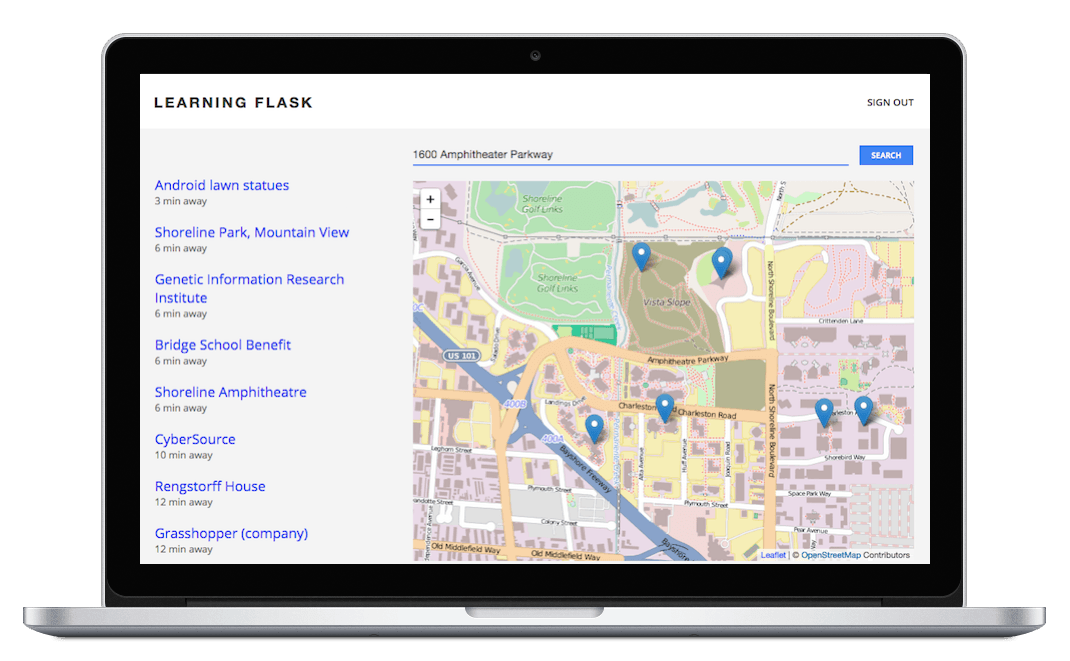
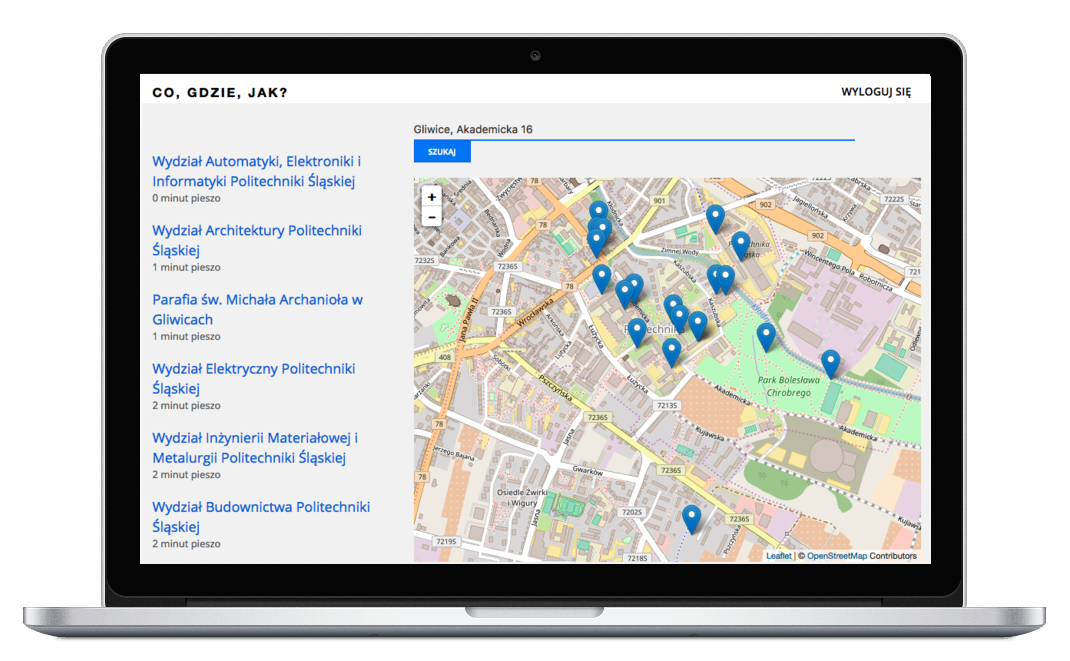
GeoDataAPI i mapa leaflef

diff --git a/templates/home.html b/templates/home.html
@@ -1,0 +1,68 @@
+{% extends "layout.html" %}
+
+{% block content %}
+  <main class="hero-section">
+    <div class="container">
+
+      <div class="section-tabs">
+        <div class="places">
+          {% for place in places %}
+            <article>
+              <a class="name" href="{{ place['url'] }}" target="_blank">{{ place['name'] }}</a>
+              <p class="walking-distance">{{ place['time'] }} minut pieszo</p>
+            </article>
+          {% endfor %}
+        </div>
+      </div>
+
+      <div class="section-map">
+        <div class="nav">
+          <form method="POST" action="/home">
+            {{ form.hidden_tag() }}
+
+            <div class="form-group">
+              {% if form.address.errors %}
+                {% for error in form.address.errors %}
+                  <p class="error-message">{{ error }}</p>
+                {% endfor %}
+              {% endif %}
+
+              {{ form.address(placeholder="Odkrywaj okolicę - wpisz adres") }}
+            </div>
+
+            {{ form.submit(class="btn-primary") }}
+          </form>
+        </div>
+
+        <div id="map"></div>
+      </div>
+
+      <div class="clearfix"></div>
+    </div>
+  </main>
+
+  <script>
+    var planes = [
+      {% for place in places %}
+        ["<h3><a href='{{ place['url'] }}' target='_blank'>{{ place['name'] }}</a></h3> <p>{{ place['time'] }} min away</p>", {{ place['lat'] }}, {{ place['lng'] }} ],
+      {% endfor %}
+    ];
+
+    var map = L.map('map').setView([{{ my_coordinates[0] }}, {{ my_coordinates[1] }}], 15);
+    mapLink = '<a href="http://openstreetmap.org">OpenStreetMap</a>';
+    L.tileLayer(
+      'http://{s}.tile.openstreetmap.org/{z}/{x}/{y}.png', {
+        attribution: '&copy; ' + mapLink + ' Contributors',
+        maxZoom: 18,
+      }
+    ).addTo(map);
+
+    for (var i = 0; i < planes.length; i++) {
+      marker = new L.marker([planes[i][1],planes[i][2]])
+        .bindPopup(planes[i][0])
+        .addTo(map);
+    }
+  </script>
+
+{% endblock %}
+

diff --git a/templates/layout.html b/templates/layout.html
@@ -3,11 +3,19 @@
   <head>
     <link href='http://fonts.googleapis.com/css?family=Open+Sans:300,400,600' rel='stylesheet'>
     <link href="{{ url_for('static', filename='css/main.css') }}" rel="stylesheet">
+
+    <link rel="stylesheet" href="http://cdnjs.cloudflare.com/ajax/libs/leaflet/0.7.3/leaflet.css" />
+    <script src="http://cdnjs.cloudflare.com/ajax/libs/leaflet/0.7.3/leaflet.js"></script>
   </head>
   <body>
     <header>
       <div class="container">
-        <h1 class="title">Learning Flask</h1>
+        <h1 class="title">Co, gdzie, jak?</h1>
+        {% if 'email' in session %}
+            <a href="{{ url_for('logout') }}" class="sign">Wyloguj się</a>
+        {% else %}
+            <a href="{{ url_for('login') }}" class="sign">Zaloguj się</a>
+        {% endif %}
       </div>
     </header>
 

diff --git a/templates/login.html b/templates/login.html
@@ -1,0 +1,31 @@
+{% extends "layout.html" %}
+
+{% block content %}
+  <main class="container signup-section">
+    <div class="section-content">
+      <h2>Logowanie</h2>
+
+      <form method="POST" action="/login">
+        {{ form.hidden_tag() }}
+
+        <div class="form-group">
+          {{ form.email.label }}
+          {{ form.email }}
+        </div>
+
+        <div class="form-group">
+          {{ form.password.label }}
+          {{ form.password }}
+        </div>
+
+        {{ form.submit(class="btn-primary") }}
+
+        <div class="form-group">
+          Nie posiadasz konta? <a href="{{ url_for('signup') }}" >Zarejestruj się!</a>
+        </div>
+
+
+      </form>
+    </div>
+  </main>
+{% endblock %}

diff --git a/static/css/main.css b/static/css/main.css
@@ -85,6 +85,20 @@ a {
   text-transform: uppercase;
 }
 
+.sign {
+  background: #ffffff;
+  color: #000000;
+  font-family: 'Open Sans', sans-serif;
+  font-size: 14px;
+  font-weight: 600;
+  letter-spacing: 0.23px;
+  padding: 0px 12px 0px 12px;
+  text-align: center;
+  text-decoration: none;
+  text-transform: uppercase;
+  float: right;
+}
+
 
 
 /*
@@ -95,6 +109,8 @@ header {
   background-color: #fff;
   padding: 25px 0;
 }
+
+
 
 .title {
   float: left;
@@ -141,7 +157,7 @@ header {
 }
 
 .hero-section .section-content h2 {
-  font-size: 40px;
+  font-size: 30px;
 }
 
 .hero-section .section-content .btn-primary {

diff --git a/templates/index.html b/templates/index.html
@@ -5,9 +5,9 @@
     <div class="container">
 
       <div class="section-content">
-        <h2>Discover places near you.</h2>
-        <a href="{{ url_for('signup') }}" class="btn-primary">Sign up</a>
-        <a href="{{ url_for('about') }}" class="btn-secondary">Learn more</a>
+        <h2>Odkryj miejsca w Twojej okolicy!</h2>
+        <a href="{{ url_for('signup') }}" class="btn-primary">Zarejestruj się</a>
+        <a href="{{ url_for('about') }}" class="btn-secondary">Informacje</a>
       </div>
 
       <div class="section-device">

diff --git a/templates/about.html b/templates/about.html
@@ -4,8 +4,8 @@
   <main class="about-section">
     <div class="container">
 
-    <h2>About Learning Flask</h2>
-    <p>In Learning Flask, you'll build an app that let's you find new places around you. With this app you can find places you like, and discover new points of interest wherever you are.</p>
+    <h2>Informacje</h2>
+    <p>Dzięki tej aplikacji możesz odkrywać miejsca w Twojej okolicy. Możesz znaleźć miejsca, które lubisz oraz poznać zupełnie nowe, interesujące lokalizacje.</p>
 
     </div>
   </main>

diff --git a/templates/signup.html b/templates/signup.html
@@ -3,7 +3,7 @@
 {% block content %}
   <main class="container signup-section">
     <div class="section-content">
-      <h2>Create an account</h2>
+      <h2>Rejestracja</h2>
 
       <form method="POST" action="/signup">
         {{ form.hidden_tag() }}

diff --git a/FlaskApp.py b/FlaskApp.py
@@ -1,6 +1,6 @@
-from flask import Flask, render_template, request
-from Models import db, User
-from Forms import SignupForm
+from flask import Flask, render_template, request, session, redirect, url_for
+from Models import db, User, Place
+from Forms import SignupForm, LoginForm, AddressForm
 
 app = Flask(__name__)
 
@@ -11,7 +11,10 @@ app.secret_key = "development-key"
 
 @app.route("/")
 def index():
-  return render_template("index.html")
+  if 'email' in session:
+    return redirect(url_for('home'))
+  else:
+    return render_template("index.html", session=session)
 
 @app.route("/about")
 def about():
@@ -19,19 +22,83 @@ def about():
 
 @app.route("/signup", methods=["GET", "POST"])
 def signup():
+  if 'email' in session:
+    return redirect(url_for('home'))
+
   form = SignupForm()
 
   if request.method == "POST":
     if form.validate() == False:
-      return render_template('signup.html', form=form)
+      return render_template('signup.html', form=form, session=session)
     else:
       newuser = User(form.first_name.data, form.last_name.data, form.email.data, form.password.data)
       db.session.add(newuser)
       db.session.commit()
-      return 'Success!'
+
+      session['email'] = newuser.email
+      return redirect(url_for('home'))
 
   elif request.method == "GET":
     return render_template('signup.html', form=form)
+
+@app.route("/login", methods=["GET", "POST"])
+def login():
+  if 'email' in session:
+    return redirect(url_for('home'))
+
+  form = LoginForm()
+
+  if request.method == "POST":
+    if form.validate() == False:
+      return render_template("login.html", form=form)
+    else:
+      email = form.email.data
+      password = form.password.data
+
+      user = User.query.filter_by(email=email).first()
+      if user is not None and user.check_password(password):
+        session['email'] = form.email.data
+        return redirect(url_for('home'))
+      else:
+        return redirect(url_for('login'))
+
+  elif request.method == 'GET':
+    return render_template('login.html', form=form)
+
+@app.route("/logout")
+def logout():
+  session.pop('email', None)
+  return redirect(url_for('index'))
+
+@app.route("/home", methods=["GET", "POST"])
+def home():
+  if 'email' not in session:
+    return redirect(url_for('login'))
+
+  form = AddressForm()
+
+  places = []
+  my_coordinates = (37.3456, -123.0987)
+
+  if request.method == "POST":
+      if form.validate() == False:
+          return render_template("home.html", form=form)
+      else:
+          # pobranie adresu
+          address = form.address.data
+
+          # miejsca w okolicy adresu (z GeoDataAPI)
+          p = Place()
+          my_coordinates = p.address_to_latlng(address)
+          places = p.query(address)
+
+          # przesłanie wyników
+          return render_template('home.html', form=form, my_coordinates=my_coordinates, places=places)
+
+
+  elif request.method == 'GET':
+      return render_template('home.html', form=form, my_coordinates=my_coordinates, places=places)
+
 
 if __name__ == "__main__":
   app.run(debug=True)

diff --git a/Models.py b/Models.py
@@ -1,5 +1,9 @@
 from flask_sqlalchemy import SQLAlchemy
 from werkzeug.security import generate_password_hash, check_password_hash
+from urllib.request import urlopen, urljoin
+
+import geocoder
+import json
 
 db = SQLAlchemy()
 
@@ -23,3 +27,49 @@ class User(db.Model):
 
     def check_password(self, password):
         return check_password_hash(self.password, password)
+
+
+class Place(object):
+    def meters_to_walking_time(self, meters):
+        # powiedzmy ze predkosc chodu to 80m/min
+        return int(meters / 80)
+
+    def wiki_path(self, slug):
+        return urljoin("http://pl.wikipedia.org/wiki/", slug.replace(' ', '_'))
+
+    def address_to_latlng(self, address):
+        g = geocoder.google(address)
+        return (g.lat, g.lng)
+
+    def query(self, address):
+        lat, lng = self.address_to_latlng(address)
+
+        query_url = 'https://pl.wikipedia.org/w/api.php?action=query&list=geosearch&gsradius=5000&gscoord={0}%7C{1}&gslimit=20&format=json'.format(
+            lat, lng)
+        g = urlopen(query_url)
+        results = g.read().decode('utf8')
+        g.close()
+
+        data = json.loads(results)
+
+        places = []
+        for place in data['query']['geosearch']:
+            name = place['title']
+            meters = place['dist']
+            lat = place['lat']
+            lng = place['lon']
+
+            wiki_url = self.wiki_path(name)
+            walking_time = self.meters_to_walking_time(meters)
+
+            d = {
+                'name': name,
+                'url': wiki_url,
+                'time': walking_time,
+                'lat': lat,
+                'lng': lng
+            }
+
+            places.append(d)
+
+        return places

diff --git a/Forms.py b/Forms.py
@@ -3,8 +3,18 @@ from wtforms import StringField, PasswordField, SubmitField
 from wtforms.validators import DataRequired, Email, Length
 
 class SignupForm(FlaskForm):
-  first_name = StringField('First name', validators=[DataRequired("Please enter your first name.")])
-  last_name = StringField('Last name', validators=[DataRequired("Please enter your last name.")])
-  email = StringField('Email', validators=[DataRequired("Please enter your email address."), Email("Please enter your email address.")])
-  password = PasswordField('Password', validators=[DataRequired("Please enter a password."), Length(min=6, message="Passwords must be 6 characters or more.")])
-  submit = SubmitField('Sign up')
+  first_name = StringField('Imię', validators=[DataRequired("Wpisz swoje imię.")])
+  last_name = StringField('Nazwisko', validators=[DataRequired("Wpisz swoje nazwisko.")])
+  email = StringField('Email', validators=[DataRequired("Wpisz swój adres email."), Email("Wpisz poprawny adres email.")])
+  password = PasswordField('Hasło', validators=[DataRequired("Wpisz swoje hasło."), Length(min=6, message="Hasło musi mieć conajmniej 6 znaków.")])
+  submit = SubmitField('Zarejestruj się')
+
+
+class LoginForm(FlaskForm):
+  email = StringField('Email', validators=[DataRequired("Wpisz swój adres email."), Email("Wpisz proszę poprawny adres email.")])
+  password = PasswordField('Hasło', validators=[DataRequired("Wpisz swoje hasło.")])
+  submit = SubmitField("Zaloguj się")
+
+class AddressForm(FlaskForm):
+  address = StringField('Adres', validators=[DataRequired("Podaj adres.")])
+  submit = SubmitField("Szukaj")
